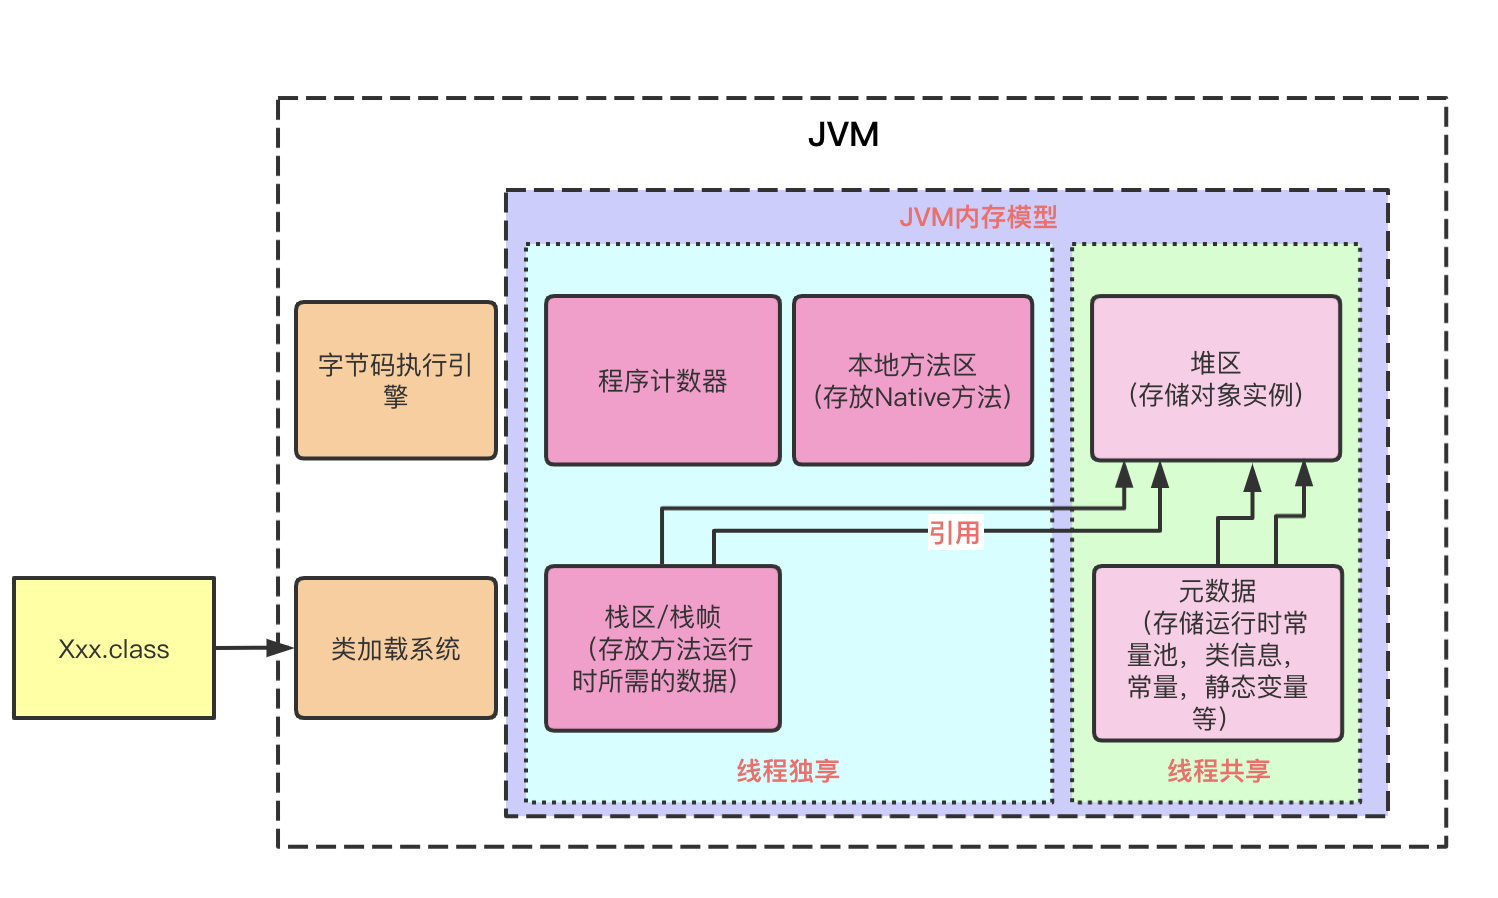
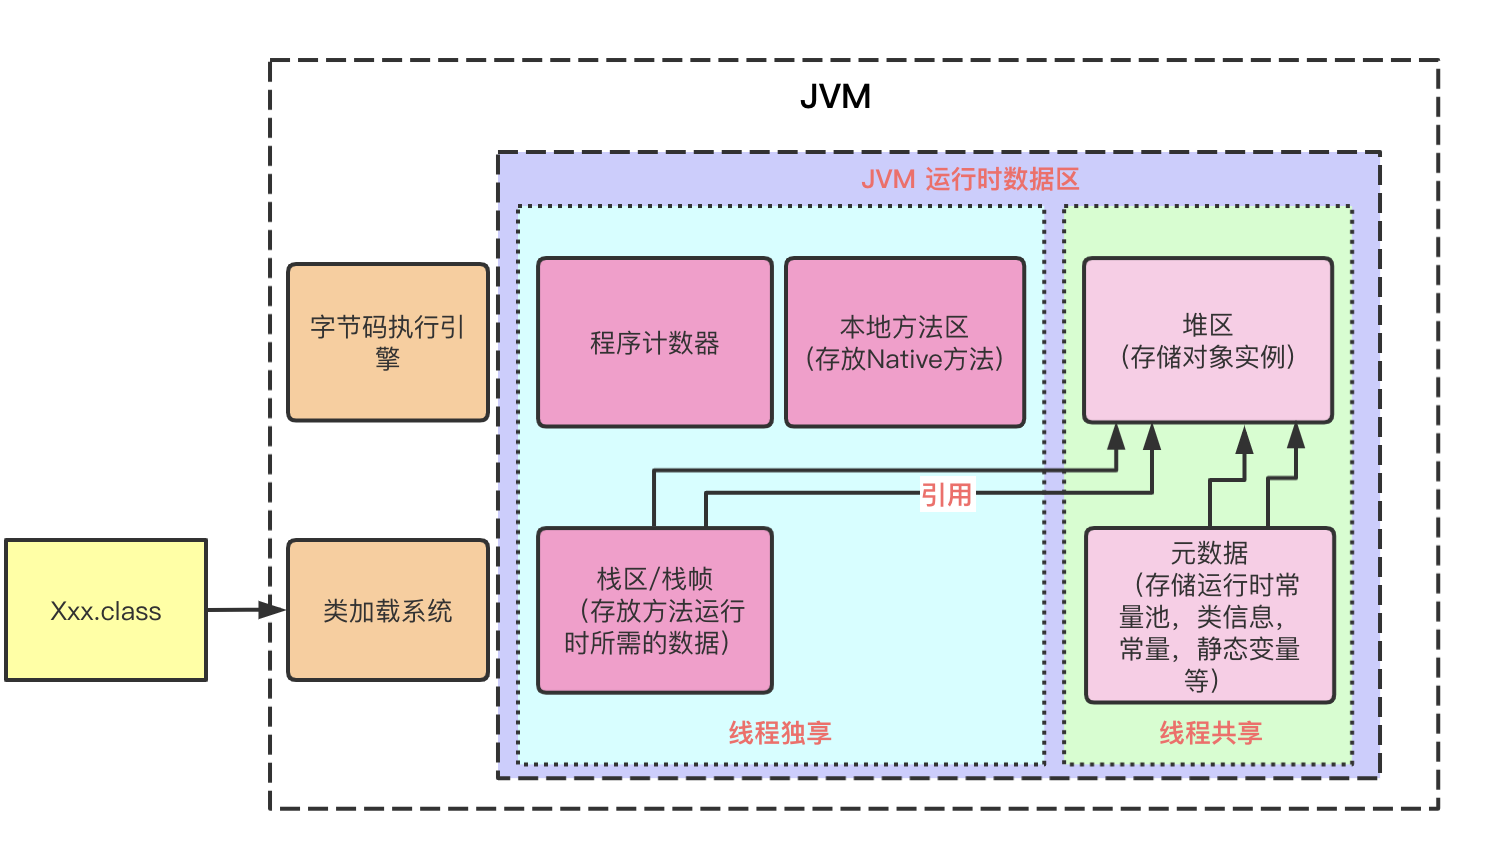
Site updated: 2020-09-09 10:19:16

Changed region(s): [[0.0, 0.0612, 0.9892, 0.9788], [0.9583, 0.2141, 0.9892, 0.7953], [0.1546, 0.2141, 0.1855, 0.3059]]

diff --git a/2020/09/07/认识JVM/index.html b/2020/09/07/认识JVM/index.html
@@ -32,7 +32,7 @@
 <meta property="og:image" content="https://zhangwenhao2013.github.io/2020/09/07/%E8%AE%A4%E8%AF%86JVM/stack.png">
 <meta property="og:image" content="https://zhangwenhao2013.github.io/2020/09/07/%E8%AE%A4%E8%AF%86JVM/array.png">
 <meta property="article:published_time" content="2020-09-07T11:03:25.000Z">
-<meta property="article:modified_time" content="2020-09-09T01:27:59.049Z">
+<meta property="article:modified_time" content="2020-09-09T02:09:28.312Z">
 <meta property="article:author" content="zhangwenhao">
 <meta property="article:tag" content="JVM">
 <meta name="twitter:card" content="summary">
@@ -187,7 +187,7 @@
                   <i class="far fa-calendar-check"></i>
                 </span>
                 <span class="post-meta-item-text">Edited on</span>
-                <time title="Modified: 2020-09-09 09:27:59" itemprop="dateModified" datetime="2020-09-09T09:27:59+08:00">2020-09-09</time>
+                <time title="Modified: 2020-09-09 10:09:28" itemprop="dateModified" datetime="2020-09-09T10:09:28+08:00">2020-09-09</time>
               </span>
             <span class="post-meta-item">
               <span class="post-meta-item-icon">
@@ -221,8 +221,8 @@
 <p><code>Xxx.class</code>是JVM 所能解析的 二进制文件, JVM将<code>Xxx.class</code> 根据执行机器上的JDK环境将文件内容处理成JVM指令.</p>
 <p>我们可以通过<code>javap</code> 指令,也将<code>Xxx.class</code> 转成JVM指令.</p>
 <p>JVM 最初就是执行转换后的JVM指令来执行我们所编写的java代码.</p>
-<h2 id="JVM-的结构"><a href="#JVM-的结构" class="headerlink" title="JVM 的结构"></a>JVM 的结构</h2><p><a target="_blank" rel="noopener" href="https://docs.oracle.com/javase/specs/jvms/se8/html/jvms-2.html#jvms-2.5">官方解释</a></p>
-<p><img src="/2020/09/07/%E8%AE%A4%E8%AF%86JVM/Jvm%E5%86%85%E5%AD%98%E6%A8%A1%E5%9E%8B.png" alt="Jvm内存模型"></p>
+<h2 id="JVM-运行时数据区结构"><a href="#JVM-运行时数据区结构" class="headerlink" title="JVM 运行时数据区结构"></a>JVM 运行时数据区结构</h2><p><a target="_blank" rel="noopener" href="https://docs.oracle.com/javase/specs/jvms/se8/html/jvms-2.html#jvms-2.5">官方解释</a></p>
+<p><img src="/2020/09/07/%E8%AE%A4%E8%AF%86JVM/Jvm%E5%86%85%E5%AD%98%E6%A8%A1%E5%9E%8B.png" alt="Jvm运行时数据区结构"></p>
 <h3 id="类加载系统"><a href="#类加载系统" class="headerlink" title="类加载系统"></a>类加载系统</h3><p>负责将类加载到内存区,本着Java中万物皆对象,负责加载类的相关类也是JAVA对象, 比如 <code>ClassLoader</code>,类加载系统不仅仅限于类加载器,底层是基于C去实现加载的.</p>
 <h3 id="堆区"><a href="#堆区" class="headerlink" title="堆区"></a>堆区</h3><p>堆区:用于存放对象实例,我们<code>new</code>出来的对象一般都存储在堆上.(但也有特殊情况,有时候会存在栈上). </p>
 <p><img src="/2020/09/07/%E8%AE%A4%E8%AF%86JVM/stack.png" alt="stack"></p>
@@ -231,10 +231,11 @@
 <p>eden  :  s0  :  s1  =   8  :  1  :   1</p>
 <p>但是这些都是可以通过JVM参数调整的.</p>
 <p>堆区是线程共享的.</p>
-<h3 id="元数据区"><a href="#元数据区" class="headerlink" title="元数据区"></a>元数据区</h3><p>用于存储运行时常量池,类信息,常量静态变量.</p>
+<h3 id="元数据区-运行时常量池"><a href="#元数据区-运行时常量池" class="headerlink" title="元数据区(运行时常量池)"></a>元数据区(运行时常量池)</h3><p>用于存储运行时常量池,类信息,常量静态变量.</p>
 <p>元数据区是线程共享的.</p>
-<h3 id="程序计数器"><a href="#程序计数器" class="headerlink" title="程序计数器"></a>程序计数器</h3><p>程序计数器:记录程序在内存中的指针位置</p>
-<h3 id="字节码执行引擎"><a href="#字节码执行引擎" class="headerlink" title="字节码执行引擎"></a>字节码执行引擎</h3><p>字节码执行引擎:负责修改程序计数器</p>
+<h3 id="程序计数器"><a href="#程序计数器" class="headerlink" title="程序计数器"></a>程序计数器</h3><p>程序计数器:记录程序在内存中的指针位置,可以理解为当前线程执行的字节码的行号指示器.</p>
+<p>字节码执行引擎通过改变计数器这个值来选取下一条需要执行的字节码指令,分支,循环,跳转,异常处理,线程恢复等功能都需要依赖计数器来完成.</p>
+<h3 id="字节码执行引擎"><a href="#字节码执行引擎" class="headerlink" title="字节码执行引擎"></a>字节码执行引擎</h3><p>字节码执行引擎:负责执行加载到元数据区的字节码文件 和 修改程序计数器.</p>
 <h3 id="栈区-栈帧"><a href="#栈区-栈帧" class="headerlink" title="栈区/栈帧"></a>栈区/栈帧</h3><p>栈区/栈帧: 线程运行时开辟出来的一快内存空间,有称栈帧.是线程独享的一块空间. 栈帧内部又可以分为4块: </p>
 <ul>
 <li>局部变量存储空间</li>
@@ -360,7 +361,7 @@
 
       <!--noindex-->
       <div class="post-toc-wrap sidebar-panel">
-          <div class="post-toc motion-element"><ol class="nav"><li class="nav-item nav-level-2"><a class="nav-link" href="#Java-%E4%BB%A3%E7%A0%81%E6%98%AF%E6%80%8E%E4%B9%88%E8%A2%ABJVM%E8%99%9A%E6%8B%9F%E6%9C%BA%E6%89%80%E6%89%A7%E8%A1%8C%E7%9A%84"><span class="nav-number">1.</span> <span class="nav-text">Java 代码是怎么被JVM虚拟机所执行的.</span></a></li><li class="nav-item nav-level-2"><a class="nav-link" href="#JVM-%E7%9A%84%E7%BB%93%E6%9E%84"><span class="nav-number">2.</span> <span class="nav-text">JVM 的结构</span></a><ol class="nav-child"><li class="nav-item nav-level-3"><a class="nav-link" href="#%E7%B1%BB%E5%8A%A0%E8%BD%BD%E7%B3%BB%E7%BB%9F"><span class="nav-number">2.1.</span> <span class="nav-text">类加载系统</span></a></li><li class="nav-item nav-level-3"><a class="nav-link" href="#%E5%A0%86%E5%8C%BA"><span class="nav-number">2.2.</span> <span class="nav-text">堆区</span></a></li><li class="nav-item nav-level-3"><a class="nav-link" href="#%E5%85%83%E6%95%B0%E6%8D%AE%E5%8C%BA"><span class="nav-number">2.3.</span> <span class="nav-text">元数据区</span></a></li><li class="nav-item nav-level-3"><a class="nav-link" href="#%E7%A8%8B%E5%BA%8F%E8%AE%A1%E6%95%B0%E5%99%A8"><span class="nav-number">2.4.</span> <span class="nav-text">程序计数器</span></a></li><li class="nav-item nav-level-3"><a class="nav-link" href="#%E5%AD%97%E8%8A%82%E7%A0%81%E6%89%A7%E8%A1%8C%E5%BC%95%E6%93%8E"><span class="nav-number">2.5.</span> <span class="nav-text">字节码执行引擎</span></a></li><li class="nav-item nav-level-3"><a class="nav-link" href="#%E6%A0%88%E5%8C%BA-%E6%A0%88%E5%B8%A7"><span class="nav-number">2.6.</span> <span class="nav-text">栈区&#x2F;栈帧</span></a><ol class="nav-child"><li class="nav-item nav-level-4"><a class="nav-link" href="#%E5%B1%80%E9%83%A8%E5%8F%98%E9%87%8F"><span class="nav-number">2.6.1.</span> <span class="nav-text">局部变量</span></a></li><li class="nav-item nav-level-4"><a class="nav-link" href="#%E6%93%8D%E4%BD%9C%E6%95%B0%E6%A0%88"><span class="nav-number">2.6.2.</span> <span class="nav-text">操作数栈</span></a></li><li class="nav-item nav-level-4"><a class="nav-link" href="#%E5%8A%A8%E6%80%81%E9%93%BE%E6%8E%A5"><span class="nav-number">2.6.3.</span> <span class="nav-text">动态链接</span></a></li><li class="nav-item nav-level-4"><a class="nav-link" href="#%E7%A8%8B%E5%BA%8F%E5%87%BA%E5%8F%A3"><span class="nav-number">2.6.4.</span> <span class="nav-text">程序出口</span></a></li></ol></li></ol></li></ol></div>
+          <div class="post-toc motion-element"><ol class="nav"><li class="nav-item nav-level-2"><a class="nav-link" href="#Java-%E4%BB%A3%E7%A0%81%E6%98%AF%E6%80%8E%E4%B9%88%E8%A2%ABJVM%E8%99%9A%E6%8B%9F%E6%9C%BA%E6%89%80%E6%89%A7%E8%A1%8C%E7%9A%84"><span class="nav-number">1.</span> <span class="nav-text">Java 代码是怎么被JVM虚拟机所执行的.</span></a></li><li class="nav-item nav-level-2"><a class="nav-link" href="#JVM-%E8%BF%90%E8%A1%8C%E6%97%B6%E6%95%B0%E6%8D%AE%E5%8C%BA%E7%BB%93%E6%9E%84"><span class="nav-number">2.</span> <span class="nav-text">JVM 运行时数据区结构</span></a><ol class="nav-child"><li class="nav-item nav-level-3"><a class="nav-link" href="#%E7%B1%BB%E5%8A%A0%E8%BD%BD%E7%B3%BB%E7%BB%9F"><span class="nav-number">2.1.</span> <span class="nav-text">类加载系统</span></a></li><li class="nav-item nav-level-3"><a class="nav-link" href="#%E5%A0%86%E5%8C%BA"><span class="nav-number">2.2.</span> <span class="nav-text">堆区</span></a></li><li class="nav-item nav-level-3"><a class="nav-link" href="#%E5%85%83%E6%95%B0%E6%8D%AE%E5%8C%BA-%E8%BF%90%E8%A1%8C%E6%97%B6%E5%B8%B8%E9%87%8F%E6%B1%A0"><span class="nav-number">2.3.</span> <span class="nav-text">元数据区(运行时常量池)</span></a></li><li class="nav-item nav-level-3"><a class="nav-link" href="#%E7%A8%8B%E5%BA%8F%E8%AE%A1%E6%95%B0%E5%99%A8"><span class="nav-number">2.4.</span> <span class="nav-text">程序计数器</span></a></li><li class="nav-item nav-level-3"><a class="nav-link" href="#%E5%AD%97%E8%8A%82%E7%A0%81%E6%89%A7%E8%A1%8C%E5%BC%95%E6%93%8E"><span class="nav-number">2.5.</span> <span class="nav-text">字节码执行引擎</span></a></li><li class="nav-item nav-level-3"><a class="nav-link" href="#%E6%A0%88%E5%8C%BA-%E6%A0%88%E5%B8%A7"><span class="nav-number">2.6.</span> <span class="nav-text">栈区&#x2F;栈帧</span></a><ol class="nav-child"><li class="nav-item nav-level-4"><a class="nav-link" href="#%E5%B1%80%E9%83%A8%E5%8F%98%E9%87%8F"><span class="nav-number">2.6.1.</span> <span class="nav-text">局部变量</span></a></li><li class="nav-item nav-level-4"><a class="nav-link" href="#%E6%93%8D%E4%BD%9C%E6%95%B0%E6%A0%88"><span class="nav-number">2.6.2.</span> <span class="nav-text">操作数栈</span></a></li><li class="nav-item nav-level-4"><a class="nav-link" href="#%E5%8A%A8%E6%80%81%E9%93%BE%E6%8E%A5"><span class="nav-number">2.6.3.</span> <span class="nav-text">动态链接</span></a></li><li class="nav-item nav-level-4"><a class="nav-link" href="#%E7%A8%8B%E5%BA%8F%E5%87%BA%E5%8F%A3"><span class="nav-number">2.6.4.</span> <span class="nav-text">程序出口</span></a></li></ol></li></ol></li></ol></div>
       </div>
       <!--/noindex-->
 

diff --git a/categories/JAVA/index.html b/categories/JAVA/index.html
@@ -391,191 +391,3 @@
 
 </body>
 </html>
-ed"
-              datetime="2019-07-01T09:46:43+08:00"
-              content="2019-07-01">
-          07-01
-        </time>
-      </div>
-
-      <div class="post-title">
-          <a class="post-title-link" href="/2019/07/01/%E6%B3%A8%E8%A7%A3Transactional%E6%B3%A8%E6%84%8F%E4%BA%8B%E9%A1%B9/" itemprop="url">
-            <span itemprop="name">注解Transactional注意事项</span>
-          </a>
-      </div>
-
-    </header>
-  </article>
-
-    </div>
-  </div>
-  
-  
-  
-
-  
-  <nav class="pagination">
-    <span class="page-number current">1</span><a class="page-number" href="/categories/JAVA/page/2/">2</a><a class="extend next" rel="next" href="/categories/JAVA/page/2/"><i class="fa fa-angle-right" aria-label="Next page"></i></a>
-  </nav>
-
-
-
-          </div>
-          
-
-<script>
-  window.addEventListener('tabs:register', () => {
-    let { activeClass } = CONFIG.comments;
-    if (CONFIG.comments.storage) {
-      activeClass = localStorage.getItem('comments_active') || activeClass;
-    }
-    if (activeClass) {
-      let activeTab = document.querySelector(`a[href="#comment-${activeClass}"]`);
-      if (activeTab) {
-        activeTab.click();
-      }
-    }
-  });
-  if (CONFIG.comments.storage) {
-    window.addEventListener('tabs:click', event => {
-      if (!event.target.matches('.tabs-comment .tab-content .tab-pane')) return;
-      let commentClass = event.target.classList[1];
-      localStorage.setItem('comments_active', commentClass);
-    });
-  }
-</script>
-
-        </div>
-          
-  
-  <div class="toggle sidebar-toggle">
-    <span class="toggle-line toggle-line-first"></span>
-    <span class="toggle-line toggle-line-middle"></span>
-    <span class="toggle-line toggle-line-last"></span>
-  </div>
-
-  <aside class="sidebar">
-    <div class="sidebar-inner">
-
-      <ul class="sidebar-nav motion-element">
-        <li class="sidebar-nav-toc">
-          Table of Contents
-        </li>
-        <li class="sidebar-nav-overview">
-          Overview
-        </li>
-      </ul>
-
-      <!--noindex-->
-      <div class="post-toc-wrap sidebar-panel">
-      </div>
-      <!--/noindex-->
-
-      <div class="site-overview-wrap sidebar-panel">
-        <div class="site-author motion-element" itemprop="author" itemscope itemtype="http://schema.org/Person">
-  <p class="site-author-name" itemprop="name">zhangwenhao</p>
-  <div class="site-description" itemprop="description">告诉自己可以做好，即使是新事物，也一样可以做好</div>
-</div>
-<div class="site-state-wrap motion-element">
-  <nav class="site-state">
-      <div class="site-state-item site-state-posts">
-          <a href="/archives/">
-        
-          <span class="site-state-item-count">19</span>
-          <span class="site-state-item-name">posts</span>
-        </a>
-      </div>
-      <div class="site-state-item site-state-categories">
-        <span class="site-state-item-count">13</span>
-        <span class="site-state-item-name">categories</span>
-      </div>
-      <div class="site-state-item site-state-tags">
-        <span class="site-state-item-count">10</span>
-        <span class="site-state-item-name">tags</span>
-      </div>
-  </nav>
-</div>
-
-
-
-      </div>
-
-    </div>
-  </aside>
-  <div id="sidebar-dimmer"></div>
-
-
-      </div>
-    </main>
-
-    <footer class="footer">
-      <div class="footer-inner">
-        
-
-        
-
-<div class="copyright">
-  
-  &copy; 
-  <span itemprop="copyrightYear">2020</span>
-  <span class="with-love">
-    <i class="fa fa-heart"></i>
-  </span>
-  <span class="author" itemprop="copyrightHolder">zhangwenhao</span>
-</div>
-  <div class="powered-by">Powered by <a href="https://hexo.io/" class="theme-link" rel="noopener" target="_blank">Hexo</a> & <a href="https://muse.theme-next.org/" class="theme-link" rel="noopener" target="_blank">NexT.Muse</a>
-  </div>
-
-        
-
-
-
-
-
-
-
-
-      </div>
-    </footer>
-  </div>
-
-  
-  <script src="/lib/anime.min.js"></script>
-  <script src="/lib/velocity/velocity.min.js"></script>
-  <script src="/lib/velocity/velocity.ui.min.js"></script>
-
-<script src="/js/utils.js"></script>
-
-<script src="/js/motion.js"></script>
-
-
-<script src="/js/schemes/muse.js"></script>
-
-
-<script src="/js/next-boot.js"></script>
-
-
-
-
-  
-
-
-
-
-
-
-
-
-
-
-
-
-
-
-
-  
-
-  
-
-</body>
-</html>

diff --git a/index.html b/index.html
@@ -258,7 +258,7 @@
                   <i class="far fa-calendar-check"></i>
                 </span>
                 <span class="post-meta-item-text">Edited on</span>
-                <time title="Modified: 2020-09-09 09:27:59" itemprop="dateModified" datetime="2020-09-09T09:27:59+08:00">2020-09-09</time>
+                <time title="Modified: 2020-09-09 10:09:28" itemprop="dateModified" datetime="2020-09-09T10:09:28+08:00">2020-09-09</time>
               </span>
             <span class="post-meta-item">
               <span class="post-meta-item-icon">

diff --git a/css/main.css b/css/main.css
@@ -1168,7 +1168,7 @@ pre .javascript .function {
 }
 .links-of-author a::before,
 .links-of-author span.exturl::before {
-  background: #ff42ff;
+  background: #ff034b;
   border-radius: 50%;
   content: ' ';
   display: inline-block;
